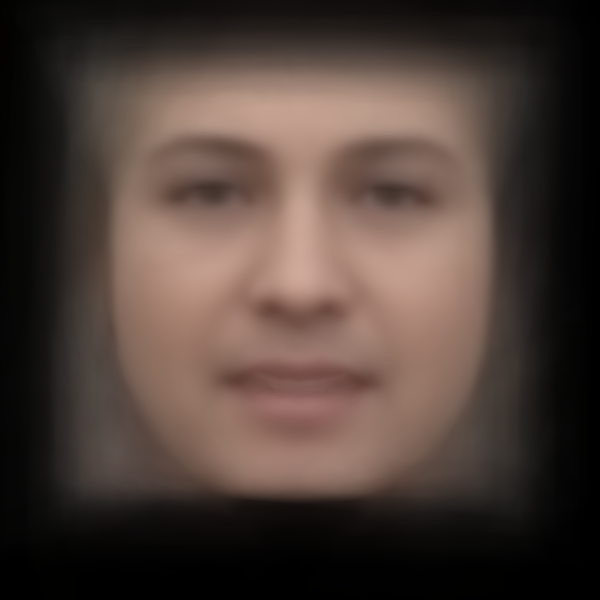
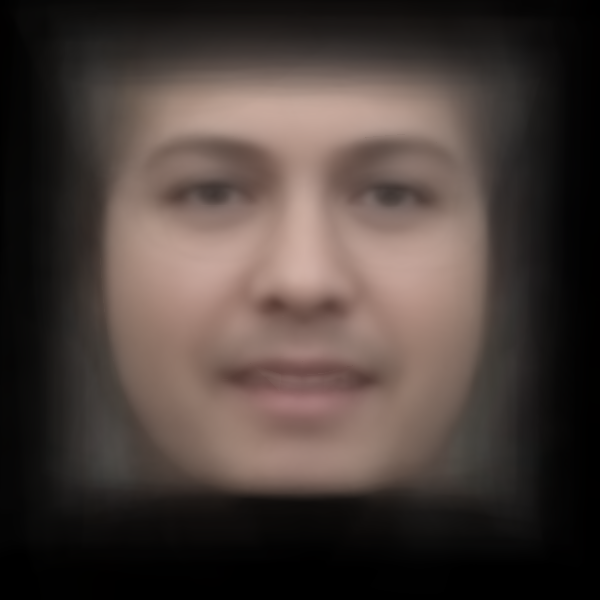
adjustments

diff --git a/server.js b/server.js
@@ -90,13 +90,6 @@ app.post("/urls", function(req, res, err){
 })
 
 app.get('/stats', function (req, res) {
-    var username = req.params.user;
-    console.log('Creating visuals...')
-    var spawn = require('child_process').spawnSync,
-        py2    = spawn('/home/gc1569/anaconda3/bin/python3', ['visuals.py', req.query.id]);
-    console.log('output: ', py2.stdout.toString('utf8')) 
-    console.log('stderr: ', py2.stderr.toString('utf8')) 
-    console.log('Visuals created')
     res.sendfile('./public/index.html')   
 })
 

diff --git a/public/js/scatter.js b/public/js/scatter.js
@@ -147,7 +147,7 @@ $.getJSON("img/"+getParameterByName('id')+"-stats.json", function(download) {
           .on("mouseout", tip.hide);
       
       objects.selectAll(".myline")
-          .data([[-1000,-1000,5000,5000]])
+          .data([[-100,-100,xMax+100,xMax+100]])
         .enter().append("line")
           .attr("x1", function(d){return x(d[0])})
           .attr("y1", function(d){return y(d[1])})

diff --git a/public/index.html b/public/index.html
@@ -19,7 +19,7 @@
     <body>
         <nav class="navbar navbar-sticky-top">
           <a class="navbar-brand" href="#">Gender Bubble</a>
-          <a class="navbar-brand pull-right" href="gaborcsapo.com">Gabor Csapo</a>
+          <a class="navbar-brand pull-right" href="http://gaborcsapo.com/">Gabor Csapo</a>
           
         </nav>
 

diff --git a/Chrome_extension/background.js b/Chrome_extension/background.js
@@ -6,7 +6,7 @@ recording = true
 chrome.webRequest.onCompleted.addListener(function(req){
     if (recording){
         queue.push(encodeURIComponent(req.url))
-        if (queue.length > 150){
+        if (queue.length > 170){
             updateStorage()
             queue = []
         }

diff --git a/preproc.py b/preproc.py
@@ -3,10 +3,15 @@ sys.path.append(os.path.abspath("/home/gc1569/Capstone/Landmark_Detection/dlib/p
 sys.path.append(os.path.abspath("/home/gc1569/Image_collector/face_classification/src/utils"))
 sys.path.append(os.path.abspath("/home/gc1569/Image_collector/face_classification/src"))
 
+import math
 import numpy as np
+from PIL import Image
+from os import listdir
 from skimage import io
+import matplotlib.pyplot as plt
 from inference import draw_text
 from datasets import get_labels
+from os.path import isfile, join
 from inference import load_image
 from inference import detect_faces
 from keras.models import load_model
@@ -164,6 +169,252 @@ def predict_gender(name):
             result['male'] += 1
     return result
 
+# Read points from text files in directory
+def readPoints(path) :
+    # Create an array of array of points.
+    pointsArray = [];
+    #List all files in the directory and read points from text files one by one
+    for filePath in sorted(os.listdir(path)):        
+        if filePath.endswith(".txt"):            
+            #Create an array of points.
+            points = [];                        
+            # Read points from filePath
+            with open(os.path.join(path, filePath)) as file :
+                for line in file :
+                    x, y = line.split()
+                    points.append((int(x), int(y)))          
+            # Store array of points
+            pointsArray.append(points)            
+    return pointsArray[:150];
+
+# Read all jpg images in folder.
+def readImages(path) :    
+    #Create array of array of images.
+    imagesArray = [];   
+    #List all files in the directory and read points from text files one by one
+    for filePath in sorted(os.listdir(path)):
+        if filePath.endswith(".jpg"):
+            # Read image found.
+            img = cv2.imread(os.path.join(path,filePath));
+            # Convert to floating point
+            img = np.float32(img)/255.0;
+            # Add to array of images
+            imagesArray.append(img);            
+    return imagesArray[:150];
+                
+# Compute similarity transform given two sets of two points.
+def similarityTransform(inPoints, outPoints) :
+    s60 = math.sin(60*math.pi/180);
+    c60 = math.cos(60*math.pi/180);  
+ 
+    inPts = np.copy(inPoints).tolist();
+    outPts = np.copy(outPoints).tolist();
+    
+    xin = c60*(inPts[0][0] - inPts[1][0]) - s60*(inPts[0][1] - inPts[1][1]) + inPts[1][0];
+    yin = s60*(inPts[0][0] - inPts[1][0]) + c60*(inPts[0][1] - inPts[1][1]) + inPts[1][1];    
+    inPts.append([np.int(xin), np.int(yin)]);    
+    xout = c60*(outPts[0][0] - outPts[1][0]) - s60*(outPts[0][1] - outPts[1][1]) + outPts[1][0];
+    yout = s60*(outPts[0][0] - outPts[1][0]) + c60*(outPts[0][1] - outPts[1][1]) + outPts[1][1];
+    
+    outPts.append([np.int(xout), np.int(yout)]);    
+    tform = cv2.estimateRigidTransform(np.array([inPts]), np.array([outPts]), False);    
+    return tform;
+
+# Check if a point is inside a rectangle
+def rectContains(rect, point) :
+    if point[0] < rect[0] :
+        return False
+    elif point[1] < rect[1] :
+        return False
+    elif point[0] > rect[2] :
+        return False
+    elif point[1] > rect[3] :
+        return False
+    return True
+
+# Calculate delanauy triangle
+def calculateDelaunayTriangles(rect, points):
+    # Create subdiv
+    subdiv = cv2.Subdiv2D(rect);  
+    # Insert points into subdiv
+    for p in points:
+        subdiv.insert((p[0], p[1]));   
+    # List of triangles. Each triangle is a list of 3 points ( 6 numbers )
+    triangleList = subdiv.getTriangleList();
+    # Find the indices of triangles in the points array
+    delaunayTri = []    
+    for t in triangleList:
+        pt = []
+        pt.append((t[0], t[1]))
+        pt.append((t[2], t[3]))
+        pt.append((t[4], t[5]))
+        
+        pt1 = (t[0], t[1])
+        pt2 = (t[2], t[3])
+        pt3 = (t[4], t[5])        
+        
+        if rectContains(rect, pt1) and rectContains(rect, pt2) and rectContains(rect, pt3):
+            ind = []
+            for j in range(0, 3):
+                for k in range(0, len(points)):                    
+                    if(abs(pt[j][0] - points[k][0]) < 1.0 and abs(pt[j][1] - points[k][1]) < 1.0):
+                        ind.append(k)                            
+            if len(ind) == 3:                                                
+                delaunayTri.append((ind[0], ind[1], ind[2]))   
+    return delaunayTri
+
+
+def constrainPoint(p, w, h) :
+    p =  ( min( max( p[0], 0 ) , w - 1 ) , min( max( p[1], 0 ) , h - 1 ) )
+    return p;
+
+# output an image of size.
+def applyAffineTransform(src, srcTri, dstTri, size) :   
+    # Given a pair of triangles, find the affine transform.
+    warpMat = cv2.getAffineTransform( np.float32(srcTri), np.float32(dstTri) )   
+    dst = cv2.warpAffine( src, warpMat, (size[0], size[1]), None, flags=cv2.INTER_LINEAR, borderMode=cv2.BORDER_REFLECT_101 )
+    return dst
+
+# Warps and alpha blends triangular regions from img1 and img2 to img
+def warpTriangle(img1, img2, t1, t2) :
+    # Find bounding rectangle for each triangle
+    r1 = cv2.boundingRect(np.float32([t1]))
+    r2 = cv2.boundingRect(np.float32([t2]))
+    # Offset points by left top corner of the respective rectangles
+    t1Rect = [] 
+    t2Rect = []
+    t2RectInt = []
+    for i in range(0, 3):
+        t1Rect.append(((t1[i][0] - r1[0]),(t1[i][1] - r1[1])))
+        t2Rect.append(((t2[i][0] - r2[0]),(t2[i][1] - r2[1])))
+        t2RectInt.append(((t2[i][0] - r2[0]),(t2[i][1] - r2[1])))
+    # Get mask by filling triangle
+    mask = np.zeros((r2[3], r2[2], 3), dtype = np.float32)
+    cv2.fillConvexPoly(mask, np.int32(t2RectInt), (1.0, 1.0, 1.0), 16, 0);
+    # Apply warpImage to small rectangular patches
+    img1Rect = img1[r1[1]:r1[1] + r1[3], r1[0]:r1[0] + r1[2]]    
+    size = (r2[2], r2[3])
+    img2Rect = applyAffineTransform(img1Rect, t1Rect, t2Rect, size)   
+    img2Rect = img2Rect * mask
+    # Copy triangular region of the rectangular patch to the output image
+    img2[r2[1]:r2[1]+r2[3], r2[0]:r2[0]+r2[2]] = img2[r2[1]:r2[1]+r2[3], r2[0]:r2[0]+r2[2]] * ( (1.0, 1.0, 1.0) - mask )    
+    img2[r2[1]:r2[1]+r2[3], r2[0]:r2[0]+r2[2]] = img2[r2[1]:r2[1]+r2[3], r2[0]:r2[0]+r2[2]] + img2Rect
+
+def calc_average():    
+    my_path = '/home/gc1569/Image_collector/img/'+ id 
+    path = my_path +'/processed/'    
+    # Dimensions of output image
+    w = 600;
+    h = 600;
+    # Read points for all images
+    allPoints = readPoints(path);    
+    images = readImages(path);
+    if (len(images) < 2):
+        return
+    # Eye corners
+    eyecornerDst = [ (np.int(0.3 * w ), np.int(h / 3)), (np.int(0.7 * w ), np.int(h / 3)) ];    
+    imagesNorm = [];
+    pointsNorm = [];
+    
+    # Add boundary points for delaunay triangulation
+    boundaryPts = np.array([(0,0), (w/2,0), (w-1,0), (w-1,h/2), ( w-1, h-1 ), ( w/2, h-1 ), (0, h-1), (0,h/2) ]);    
+    # Initialize location of average points to 0s
+    pointsAvg = np.array([(0,0)]* ( len(allPoints[0]) + len(boundaryPts) ), np.float32());
+    
+    n = len(allPoints[0]);
+    numImages = len(images)
+    
+    # Warp images and trasnform landmarks to output coordinate system,and find average of transformed landmarks.    
+    for i in range(0, numImages):
+        points1 = allPoints[i];
+        # Corners of the eye in input image
+        eyecornerSrc  = [ allPoints[i][36], allPoints[i][45] ]       
+        # Compute similarity transform
+        tform = similarityTransform(eyecornerSrc, eyecornerDst);       
+        # Apply similarity transformation
+        img = cv2.warpAffine(images[i], tform, (w,h))
+        # Apply similarity transform on points
+        points2 = np.reshape(np.array(points1), (68,1,2));                
+        points = cv2.transform(points2, tform);        
+        points = np.float32(np.reshape(points, (68, 2)));       
+        # Append boundary points. Will be used in Delaunay Triangulation
+        points = np.append(points, boundaryPts, axis=0)       
+        # Calculate location of average landmark points.
+        pointsAvg = pointsAvg + points / numImages;        
+        pointsNorm.append(points);
+        imagesNorm.append(img);
+    
+    # Delaunay triangulation
+    rect = (0, 0, w, h);
+    dt = calculateDelaunayTriangles(rect, np.array(pointsAvg));
+
+    # Output image
+    output = np.zeros((h,w,3), np.float32());
+
+    # Warp input images to average image landmarks
+    for i in range(0, len(imagesNorm)) :
+        img = np.zeros((h,w,3), np.float32());
+        # Transform triangles one by one
+        for j in range(0, len(dt)) :
+            tin = []; 
+            tout = [];            
+            for k in range(0, 3) :                
+                pIn = pointsNorm[i][dt[j][k]];
+                pIn = constrainPoint(pIn, w, h);
+                
+                pOut = pointsAvg[dt[j][k]];
+                pOut = constrainPoint(pOut, w, h);
+                
+                tin.append(pIn);
+                tout.append(pOut);            
+            warpTriangle(imagesNorm[i], img, tin, tout);
+        # Add image intensities for averaging
+        output = output + img;
+    # Divide by numImages to get average
+    output = output / numImages;
+
+    # save image
+    plt.imsave('/home/gc1569/Image_collector/public/img/' + id + "-average.jpg", cv2.cvtColor(output, cv2.COLOR_BGR2RGB))
+    
+def calc_tile():
+    my_path = '/home/gc1569/Image_collector/img/'+id
+    files = [ join(my_path+'/processed', f) for f in listdir(my_path+'/processed') if isfile(join(my_path+'/processed', f)) and not f.endswith('.txt')]
+    
+    random.shuffle(files)
+    new_im = Image.new('RGB', (2000,2000))
+    index = 0
+    for i in range(0,2000,200):
+        for j in range(0,2000,200):
+            try:
+                image = Image.open(files[index])
+            except:
+                break
+            width  = image.size[0]
+            height = image.size[1]
+
+            aspect = width / float(height)
+
+            ideal_width = 200
+            ideal_height = 200
+
+            ideal_aspect = ideal_width / float(ideal_height)
+
+            if aspect > ideal_aspect:
+                # Then crop the left and right edges:
+                new_width = int(ideal_aspect * height)
+                offset = (width - new_width) / 2
+                resize = (offset, 0, width - offset, height)
+            else:
+                # ... crop the top and bottom:
+                new_height = int(width / ideal_aspect)
+                offset = (height - new_height) / 2
+                resize = (0, offset, width, height - offset)
+
+            thumb = image.crop(resize).resize((ideal_width, ideal_height), Image.ANTIALIAS)
+            new_im.paste(thumb, (i,j))
+            index += 1
+    new_im.save('/home/gc1569/Image_collector/public/img/' + id + "-tile.jpg")
+
 
 #Read data from stdin
 def read_in():
@@ -234,4 +485,7 @@ if __name__ == '__main__':
     print('N.o. removes: ', no_removes, ' | N.o. Results: ', len(genders))
     output = map(align_face, list(data))
     print('Alignment done:', list(output))
-
+    
+    calc_tile()
+    calc_average()
+    print('Images created')
